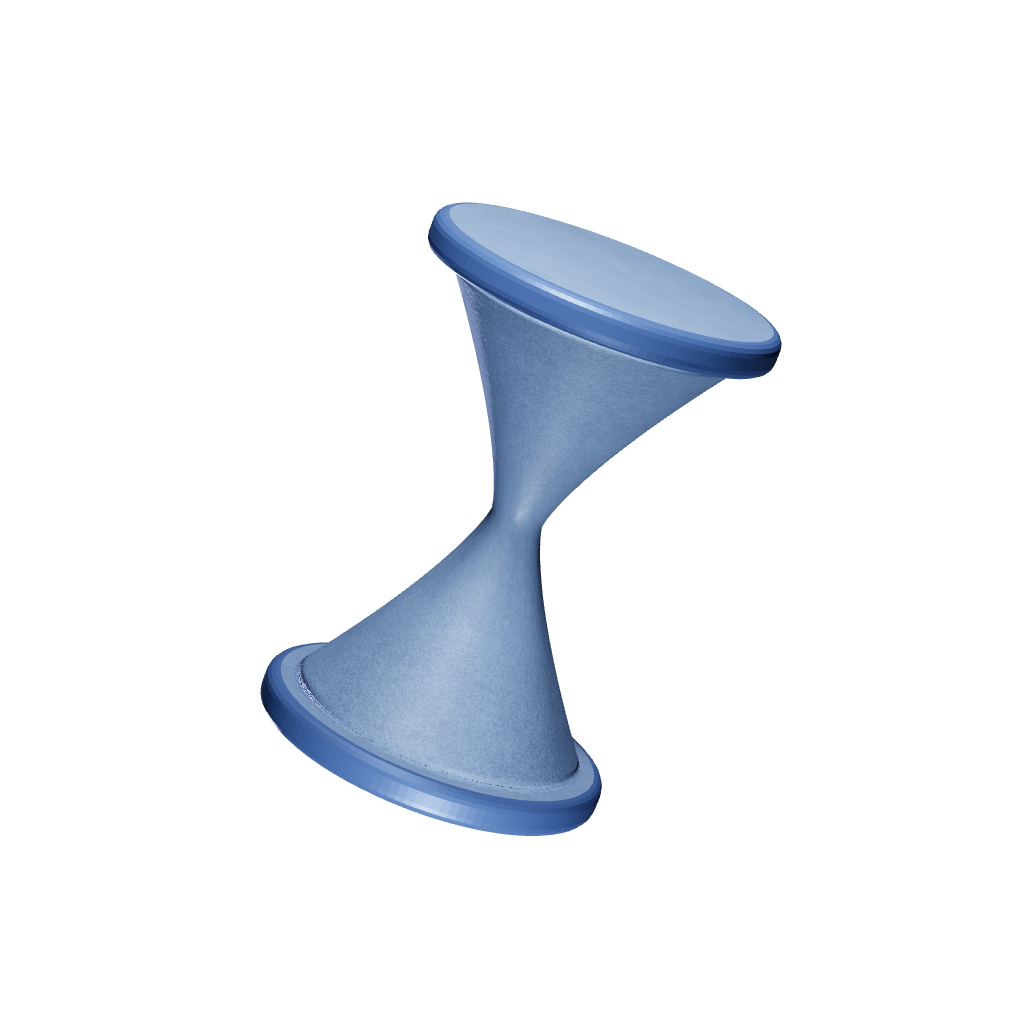
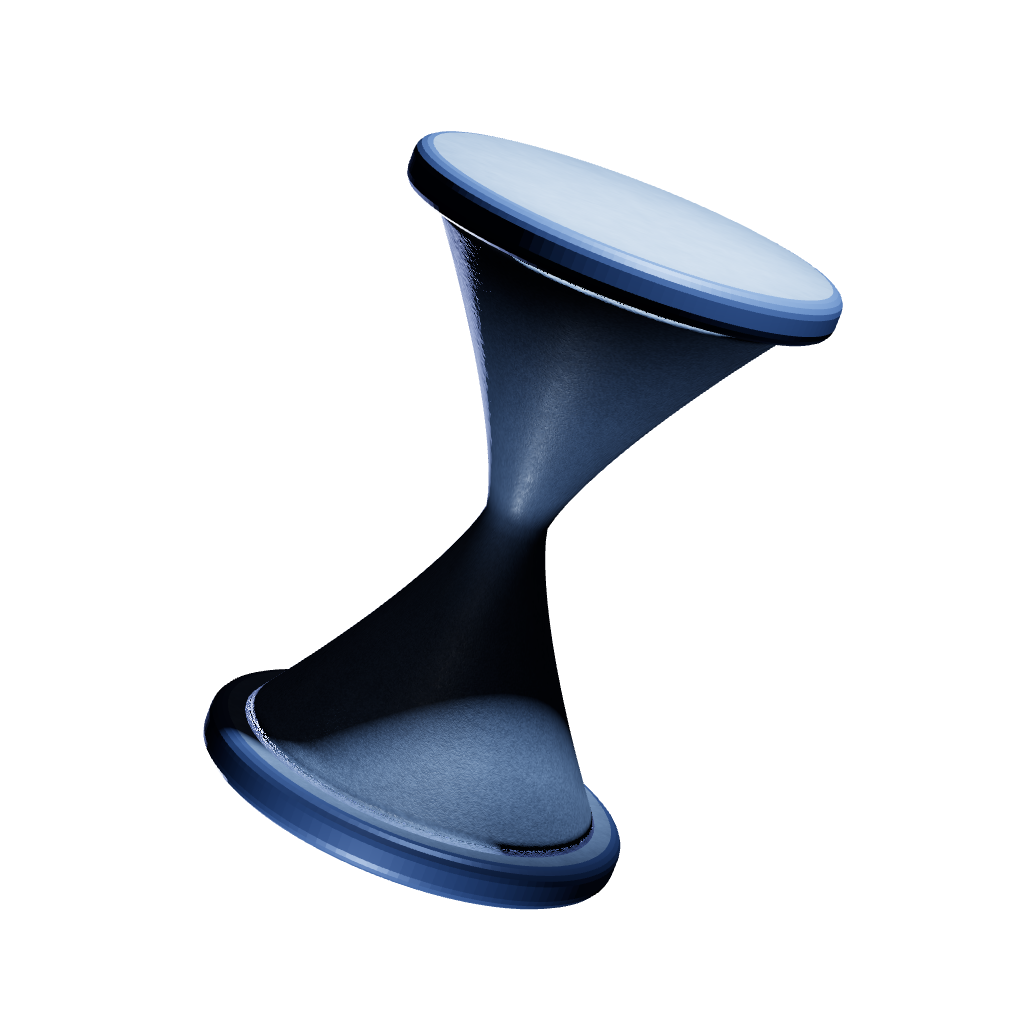
Prototype: sectorhero-object groter (fill 0.76) met diepere schaduwen zoals de hero-ring; vlak vast vierkant

Changed region(s): [[0.1857, 0.1238, 0.8356, 0.8975]]

diff --git a/js/hero-obj.js b/js/hero-obj.js
@@ -14,23 +14,31 @@ const canvas = wrap && wrap.querySelector('canvas');
 const C = {
   // schuine stand: top naar de kijker (je ziet het bovenblad), as naar rechts gekanteld, iets gedraaid
   tilt: [0.42, 0.35, -0.38],   // x, y, z in radialen
-  fill: 0.62,                  // objecthoogte als deel van de canvashoogte
+  fill: 0.76,                  // objecthoogte als deel van de canvashoogte (06-11: groter, was 0.62)
+  // licht: zelfde opbouw als de hero-ring (boven, onder, blauw tegenlicht, navy vulling), maar smalle bundels van
+  // rechtsboven en bijna geen vullicht, zodat hals en voet in diepe navy schaduw vallen zoals de schijven van de ring
+  // (06-11: variant E gekozen uit vier; was top 120/bottom 65/angle 0.6/back 1.2/hemi 0.55/env 0.08)
+  light: { top: 170, bottom: 25, angle: 0.3, back: 3.5, hemi: 0.08, env: 0.02, exposure: 1.0,
+           topPos: [2.2, 3.2, 2.2], bottomPos: [-1.6, -3.0, 1.2] },
   bob: { amp: 0.07, period: 5.2 },               // wereldeenheden (~2% van de canvashoogte), seconden per op-en-neer
   parallax: { rotY: 0.12, rotX: 0.08, moveX: 0.12, moveY: 0.09 },   // als de hero-ring, iets meer draai
   follow: 3,                   // hoe snel het object de cursor volgt
 };
+// ?cfg={"fill":0.8,"light":{...}} overschrijft waarden, om varianten te beoordelen
+try { const o = JSON.parse(params.get('cfg') || '{}'); Object.assign(C, o, { light: { ...C.light, ...(o.light || {}) } }); } catch (e) {}
 const UNIT = 2.4;              // vormen zijn gemodelleerd op een kader van ~2,4 eenheden (zie forms.js)
 
 if (canvas) {
   const renderer = new THREE.WebGLRenderer({ canvas, antialias: true, alpha: true, preserveDrawingBuffer: true });
   renderer.setPixelRatio(Math.min(devicePixelRatio, 2));
   renderer.toneMapping = THREE.ACESFilmicToneMapping;
+  renderer.toneMappingExposure = C.light.exposure;
   renderer.shadowMap.enabled = true;
   renderer.shadowMap.type = THREE.VSMShadowMap;
 
   const scene = new THREE.Scene();
   scene.environment = new THREE.PMREMGenerator(renderer).fromScene(new RoomEnvironment(), 0.04).texture;
-  scene.environmentIntensity = 0.08;
+  scene.environmentIntensity = C.light.env;
 
   const FOV = 18;
   const camera = new THREE.PerspectiveCamera(FOV, 1, 0.1, 100);
@@ -39,17 +47,17 @@ if (canvas) {
 
   // lichtopstelling van de hero-ring: spot van boven, spot van onder, blauw tegenlicht, navy vulling
   function spot(color, intensity, pos, target) {
-    const l = new THREE.SpotLight(color, intensity, 0, 0.6, 1, 2);
+    const l = new THREE.SpotLight(color, intensity, 0, C.light.angle, 1, 2);
     l.position.set(...pos); l.target.position.set(...target);
     l.castShadow = true;
     l.shadow.mapSize.set(512, 512); l.shadow.bias = -0.0004; l.shadow.radius = 22; l.shadow.blurSamples = 24;
     scene.add(l, l.target);
   }
-  spot(0xd0e3fb, 120, [0.5, 4.0, 3.5], [0, 0.5, 0]);     // boven
-  spot(0xcde0fa, 65, [-0.6, -3.6, 2.4], [0, -0.5, 0]);   // onder
-  const back = new THREE.DirectionalLight(0x8d9cd0, 1.2);
+  spot(0xd0e3fb, C.light.top, C.light.topPos, [0, 0.5, 0]);          // boven
+  spot(0xcde0fa, C.light.bottom, C.light.bottomPos, [0, -0.5, 0]);   // onder
+  const back = new THREE.DirectionalLight(0x8d9cd0, C.light.back);
   back.position.set(-2, -1, -6);
-  scene.add(back, new THREE.HemisphereLight(0x4d64a8, 0x08102a, 0.55));
+  scene.add(back, new THREE.HemisphereLight(0x4d64a8, 0x08102a, C.light.hemi));
 
   const { BUILD } = createForms();
   const { g } = BUILD[FORM_INDEX[wrap.dataset.form] ?? 2]();

diff --git a/design.css b/design.css
@@ -748,3 +748,7 @@ body.ds { background: #fff; font-size: 15px; }
    Render: assets/hero-obj-<sector>.png uit js/hero-obj.js (?t=0, cursor in het midden). */
 .ds .ds-hero-obj { justify-self: end; width: 100%; max-width: 480px; aspect-ratio: 1; display: grid; place-items: center; position: relative; }
 .ds .ds-hero-obj img { width: 130%; max-width: none; grid-area: 1 / 1; }
+/* 06-11 (8): vlak altijd vierkant en verticaal gecentreerd; het beeld (130%) bepaalt de maat niet, anders groeit
+   de hero mee en wordt het canvas in het prototype langwerpig */
+.ds .ds-hero-obj { align-self: center; height: auto; aspect-ratio: 1; }
+.ds .ds-hero-obj img { position: absolute; left: 50%; top: 50%; width: 130%; height: auto; transform: translate(-50%, -50%); }
